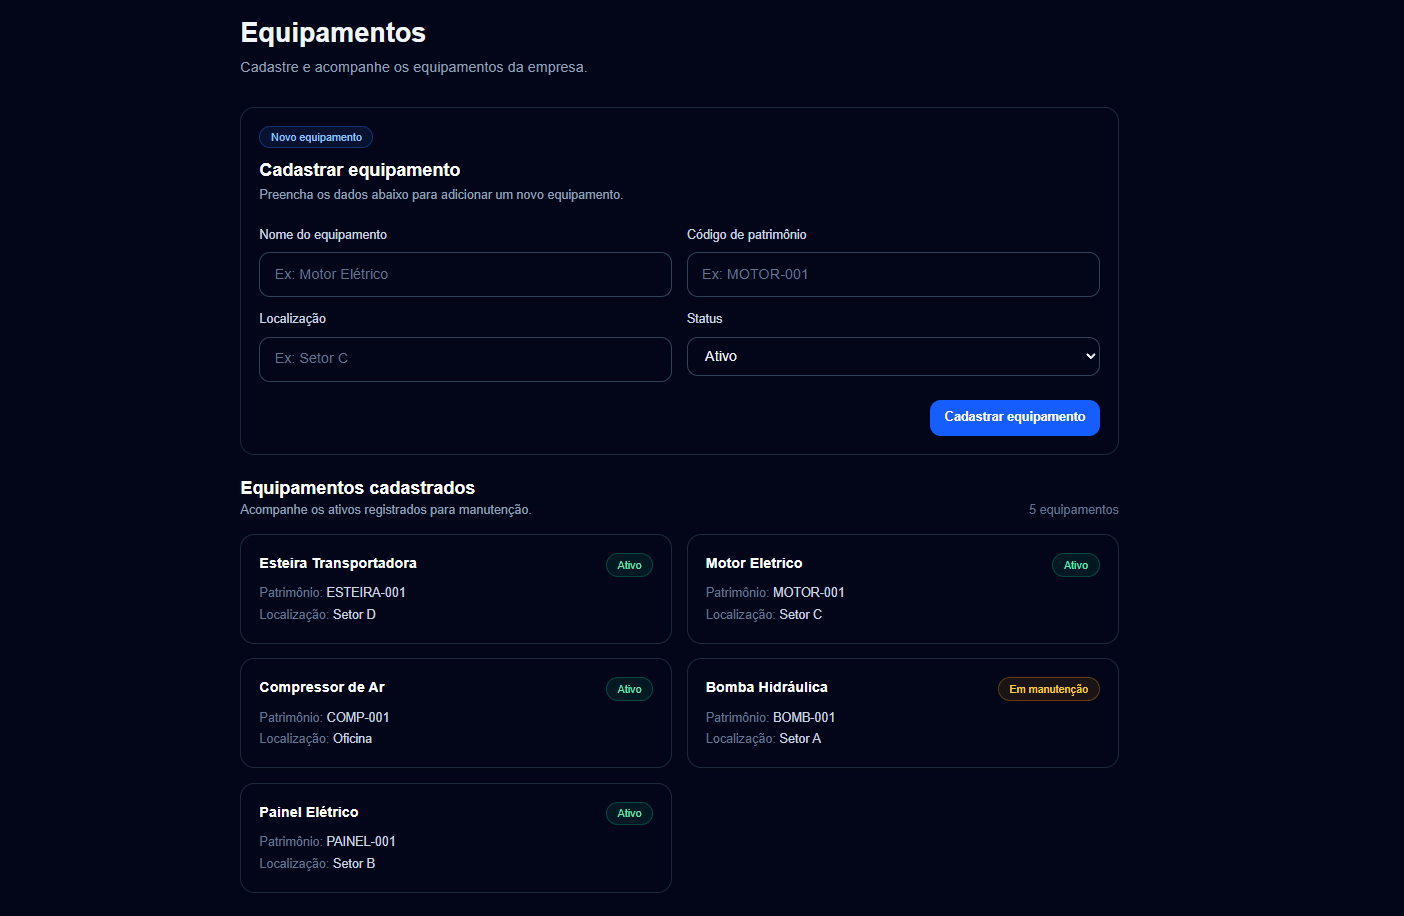
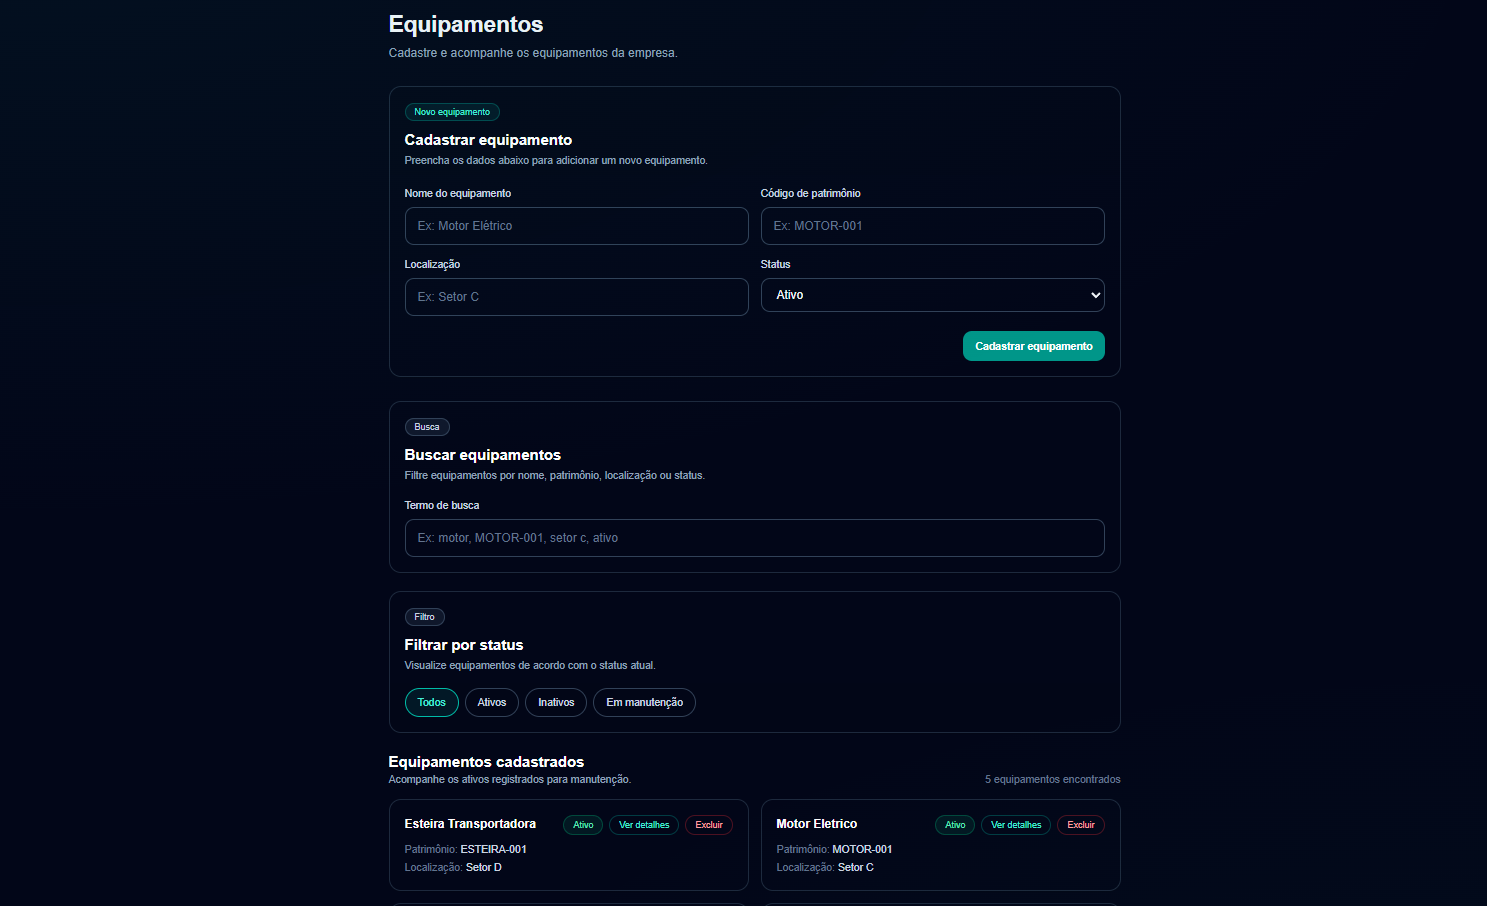
docs: atualiza README e previews do projeto

diff --git a/README.md b/README.md
@@ -1,21 +1,27 @@
 # ManutFlow
 
-Sistema de Controle de Manutenção e Ordens de Serviço desenvolvido como projeto full stack de estudo, com foco em organização de código, banco de dados, boas práticas e evolução incremental.
+Sistema de Controle de Manutenção e Ordens de Serviço desenvolvido como projeto full stack de estudo, com foco em organização de código, banco de dados, boas práticas, documentação técnica e evolução incremental.
 
-O projeto está sendo construído do zero como parte de um desafio prático de aprendizado, evoluindo etapa por etapa com foco em entendimento real dos conceitos aplicados.
+O projeto está sendo construído do zero como parte de um desafio prático de aprendizado, evoluindo etapa por etapa com foco em entendimento real dos conceitos aplicados em uma aplicação full stack.
 
 ## Preview
 
 ### Dashboard
 
 <p align="center">
-  <img src="./docs/preview-dashboard.png" alt="Preview do dashboard do ManutFlow" width="900" />
+  <img src="./docs/preview-dashboard.png" alt="Preview do dashboard do ManutFlow com indicadores de equipamentos e ordens de serviço" width="900" />
 </p>
 
 ### Equipamentos
 
 <p align="center">
-  <img src="./docs/preview-equipamentos.png" alt="Preview da tela de equipamentos do ManutFlow" width="900" />
+  <img src="./docs/preview-equipamentos.png" alt="Preview da tela de equipamentos do ManutFlow com cadastro, busca, filtros e listagem" width="900" />
+</p>
+
+### Detalhes do equipamento
+
+<p align="center">
+  <img src="./docs/preview-equipamento-detalhes.png" alt="Preview da página de detalhes de equipamento do ManutFlow com informações gerais e ordens vinculadas" width="900" />
 </p>
 
 ### Ordens de Serviço
@@ -32,7 +38,7 @@ O projeto está sendo construído do zero como parte de um desafio prático de a
 
 O ManutFlow tem como objetivo simular um sistema usado por empresas para controlar equipamentos, ordens de manutenção, prioridades, status e histórico de atendimento.
 
-A ideia do projeto é aprender desenvolvimento full stack construindo uma aplicação real, passando por front-end, back-end, banco de dados, autenticação, testes, logs e deploy.
+A ideia do projeto é aprender desenvolvimento full stack construindo uma aplicação real, passando por front-end, back-end, banco de dados, validações, regras de negócio, documentação, autenticação futura, testes, logs e deploy.
 
 ## Tecnologias utilizadas até o momento
 
@@ -55,14 +61,21 @@ O projeto está em desenvolvimento e atualmente possui:
 * Total de equipamentos cadastrados
 * Total de ordens de serviço
 * Contagem de ordens abertas, em andamento e fechadas
+* Interface em tema dark com identidade visual em teal
 
 ### Equipamentos
 
-* Cadastro e listagem de equipamentos
+* Cadastro, listagem e exclusão de equipamentos
 * Validação de campos obrigatórios
 * Tratamento para código de patrimônio duplicado
+* Busca textual por nome, código de patrimônio, localização e status
+* Filtro por status: ativo, inativo e em manutenção
 * Status exibidos com textos amigáveis e badges visuais
-* Atualização automática da lista após cadastro
+* Página de detalhes do equipamento
+* Exibição de ordens de serviço vinculadas ao equipamento
+* Bloqueio de exclusão para equipamentos com ordens de serviço vinculadas
+* Atualização automática da lista após cadastro ou exclusão
+* Estado vazio para busca e filtros sem resultado
 
 ### Ordens de Serviço
 
@@ -71,7 +84,7 @@ O projeto está em desenvolvimento e atualmente possui:
 * Alteração de status pela interface
 * Exclusão de ordens de serviço
 * Busca textual por título, descrição, equipamento, patrimônio e local
-* Filtro por status
+* Filtro por status: abertas, em andamento e fechadas
 * Estados vazios para busca e filtros sem resultado
 * Atualização automática da lista após cadastro, exclusão ou alteração de status
 
@@ -81,6 +94,9 @@ O projeto está em desenvolvimento e atualmente possui:
 * Validação dos dados no servidor antes de salvar no banco
 * Integração com Supabase e PostgreSQL
 * Relacionamento entre `equipments` e `service_orders`
+* Rota dinâmica para buscar detalhes de um equipamento
+* Rota dinâmica para excluir equipamentos com validação de vínculo
+* Bloqueio de exclusão de equipamentos com ordens vinculadas
 * Row Level Security configurado inicialmente
 * Policies provisórias para ambiente de desenvolvimento
 
@@ -94,11 +110,15 @@ src/
 │  ├─ api/
 │  │  ├─ dashboard-summary/
 │  │  ├─ equipments/
+│  │  │  ├─ [id]/
+│  │  │  └─ route.ts
 │  │  ├─ health/
 │  │  └─ service-orders/
 │  │     ├─ [id]/
 │  │     └─ route.ts
 │  ├─ equipamentos/
+│  │  ├─ [id]/
+│  │  └─ page.tsx
 │  ├─ ordens/
 │  ├─ layout.tsx
 │  └─ page.tsx
@@ -121,7 +141,11 @@ Página inicial do sistema, funcionando como dashboard com indicadores reais de 
 
 ### `/equipamentos`
 
-Página responsável por cadastrar e listar os equipamentos da empresa.
+Página responsável por cadastrar, listar, buscar, filtrar e excluir equipamentos da empresa.
+
+### `/equipamentos/[id]`
+
+Página responsável por exibir os detalhes de um equipamento específico, incluindo dados gerais e ordens de serviço vinculadas.
 
 ### `/ordens`
 
@@ -155,6 +179,17 @@ Rota responsável por listar e cadastrar equipamentos.
 GET  /api/equipments
 POST /api/equipments
 ```
+
+### `/api/equipments/[id]`
+
+Rota responsável por buscar detalhes ou excluir um equipamento específico.
+
+```text
+GET    /api/equipments/[id]
+DELETE /api/equipments/[id]
+```
+
+A exclusão de equipamentos valida se existem ordens de serviço vinculadas. Caso existam vínculos, a exclusão é bloqueada para preservar a integridade dos dados.
 
 ### `/api/service-orders`
 
@@ -233,6 +268,8 @@ service_orders.equipment_id
 
 Esse relacionamento permite listar uma ordem de serviço junto com os dados do equipamento vinculado, como nome, código de patrimônio e localização.
 
+Também permite exibir, na página de detalhes do equipamento, as ordens de serviço vinculadas a ele.
+
 ## Fluxos principais
 
 ### Cadastro de equipamento
@@ -249,6 +286,50 @@ API salva no Supabase
 Banco aplica regras como unique e check
         ↓
 Interface exibe sucesso ou erro
+        ↓
+Lista de equipamentos é atualizada
+```
+
+### Busca e filtro de equipamentos
+
+```text
+Usuário digita um termo de busca ou seleciona um status
+        ↓
+Front-end filtra os equipamentos já carregados
+        ↓
+Lista exibe apenas os equipamentos compatíveis
+        ↓
+Caso não existam resultados, a interface exibe um estado vazio específico
+```
+
+### Detalhes do equipamento
+
+```text
+Usuário acessa os detalhes de um equipamento
+        ↓
+Front-end requisita GET /api/equipments/[id]
+        ↓
+API busca os dados do equipamento
+        ↓
+API busca as ordens de serviço vinculadas ao equipamento
+        ↓
+Interface exibe informações gerais e histórico vinculado
+```
+
+### Exclusão de equipamento
+
+```text
+Usuário solicita a exclusão de um equipamento
+        ↓
+Interface pede confirmação
+        ↓
+Front-end envia DELETE para /api/equipments/[id]
+        ↓
+API verifica se existem ordens de serviço vinculadas
+        ↓
+Se houver vínculo, a exclusão é bloqueada
+        ↓
+Se não houver vínculo, o equipamento é removido
         ↓
 Lista de equipamentos é atualizada
 ```
@@ -293,7 +374,7 @@ Status atualizado aparece na tela
 
 ## Validações atuais
 
-A API valida os dados antes de salvar ou atualizar registros.
+A API valida os dados antes de salvar, atualizar ou excluir registros.
 
 ### Equipamentos
 
@@ -301,7 +382,8 @@ A API valida os dados antes de salvar ou atualizar registros.
 * código de patrimônio obrigatório;
 * localização obrigatória;
 * status válido;
-* código de patrimônio único.
+* código de patrimônio único;
+* bloqueio de exclusão quando existem ordens vinculadas.
 
 ### Ordens de serviço
 
@@ -312,6 +394,21 @@ A API valida os dados antes de salvar ou atualizar registros.
 * vínculo obrigatório com um equipamento existente.
 
 Além das validações da API, o banco também possui regras para limitar valores aceitos em campos como `status` e `priority`.
+
+## Interface e identidade visual
+
+A interface utiliza tema dark com base em tons de slate e destaques em teal.
+
+A paleta visual segue uma separação entre cores de identidade e cores semânticas:
+
+* `teal` para ações principais, links, filtros ativos e badges informativos;
+* `emerald` para estados positivos, como ativo ou fechado;
+* `amber` para manutenção ou andamento;
+* `yellow`, `orange` e `red` para níveis de prioridade;
+* `red` para erros e ações destrutivas;
+* `slate` e `white` para base visual, textos e superfícies.
+
+O objetivo é manter uma aparência consistente, discreta e próxima de um sistema real de uso interno.
 
 ## Variáveis de ambiente
 
@@ -376,8 +473,6 @@ http://localhost:3000
 
 ## Próximos passos
 
-* Refatorar a tela de equipamentos para centralizar o carregamento de dados no componente de página
-* Adicionar busca de equipamentos por texto
 * Criar página de detalhes da ordem de serviço
 * Criar histórico de alterações da ordem
 * Melhorar o dashboard com indicadores adicionais
@@ -400,14 +495,19 @@ Até o momento, o projeto já passou por conceitos importantes de desenvolviment
 * consumo de API com `fetch`;
 * estado de carregamento, erro e lista vazia;
 * busca e filtro no front-end;
-* atualização automática da interface após ações do usuário.
+* rotas dinâmicas;
+* páginas de detalhes;
+* atualização automática da interface após ações do usuário;
+* identidade visual consistente com Tailwind CSS.
 
 ### Back-end e API
 
 * Server/API Routes;
 * métodos HTTP `GET`, `POST`, `PATCH` e `DELETE`;
+* rotas dinâmicas de API;
 * validação no servidor;
 * tratamento de erro;
+* bloqueio de ações com base em relacionamento entre tabelas;
 * separação entre interface, API e banco de dados.
 
 ### Banco de dados e segurança
@@ -418,11 +518,14 @@ Até o momento, o projeto já passou por conceitos importantes de desenvolviment
 * relacionamento entre tabelas;
 * chaves estrangeiras;
 * Row Level Security;
-* policies no Supabase.
+* policies no Supabase;
+* preservação de integridade ao impedir exclusão de equipamentos vinculados a ordens.
 
 ### Processo de desenvolvimento
 
 * versionamento com Git e GitHub;
 * fluxo de branch, commit, Pull Request, merge e limpeza de branches;
 * evolução incremental por pequenas tarefas;
+* auditoria visual com apoio de agente de código;
+* revisão de alterações antes do commit;
 * documentação técnica do projeto.
